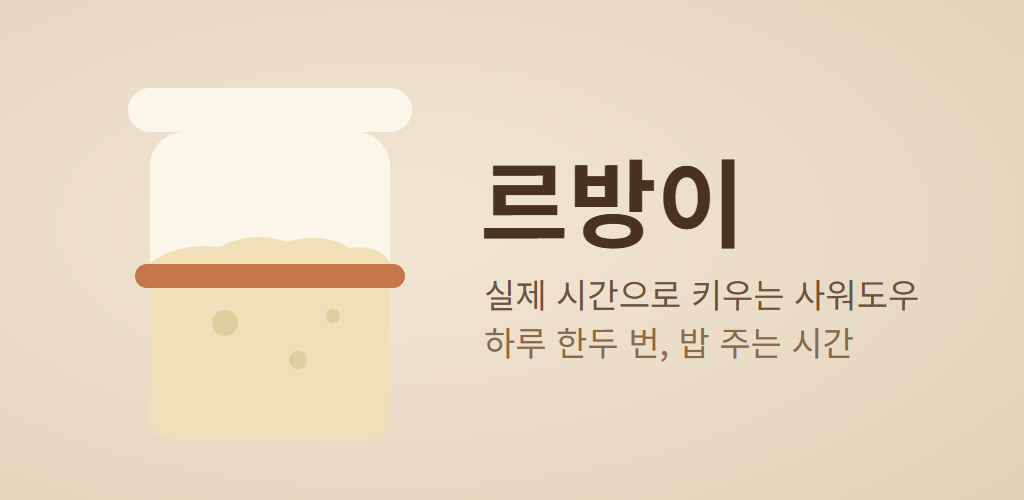
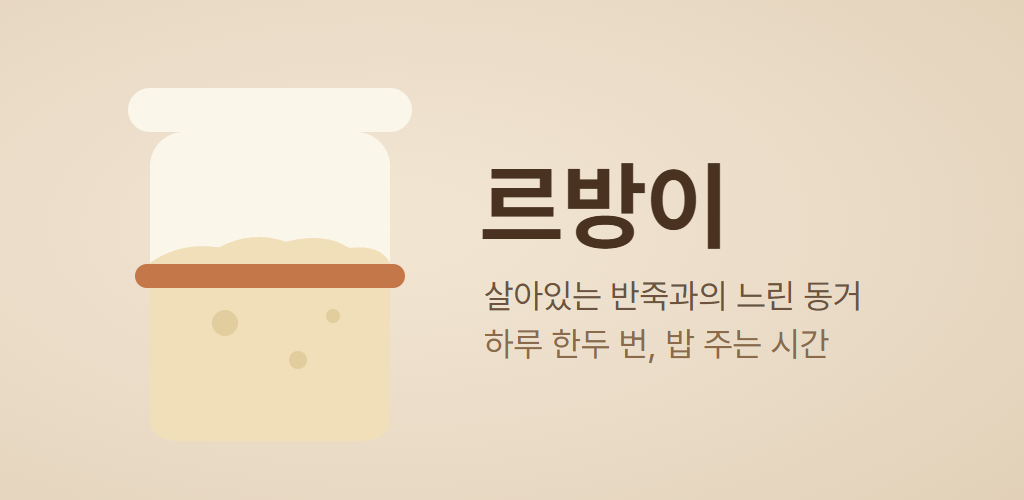
chore(release): Play 내부 테스트 등록 — versionCode 2 / 1.3.7 AAB + 스토어 자산
- android: versionCode 1 -> 2, versionName 1.3.5 -> 1.3.7 (OTA 매니페스트와 동일 -> 다운그레이드 없음)
- 피처 그래픽 부제를 짧은 설명과 같은 문장으로 교체 (카피 잠금 위반 "키우는 사워도우" 제거)
  + scripts/render-feature-graphic.mjs 로 재굽기 자동화
- scripts/store-shots.mjs: 태블릿 스크린샷 캡처 하네스 (현재 결과는 사용 불가 — 태블릿 레이아웃 문제)
- docs/STORE_LISTING.md: Play Console 등록 현황과 남은 작업 갱신

Claude-Session: https://claude.ai/code/session_016vZwmBph9XzPk9HDA9vyeV

Changed region(s): [[0.4688, 0.3, 0.7188, 0.51], [0.4688, 0.54, 0.9062, 0.63], [0.4688, 0.66, 0.8438, 0.72]]

diff --git a/docs/STORE_LISTING.md b/docs/STORE_LISTING.md
@@ -37,11 +37,18 @@
 ## 준비된 자산
 
 - 앱 아이콘 512×512: `assets/icon-512.png`
-- 피처 그래픽 1024×500: `assets/feature-graphic.png`
-  (문구에 “키우는 사워도우”가 들어 있음 — 잠금과 어긋남. 공개 전에 SVG 고쳐 다시 굽는 편이 낫다)
-- 스크린샷: `docs/screenshot-home.png` · `docs/screenshot-recipes.png` (에뮬. 실기기 캡처로 교체 권장)
-- 서명 AAB — **재빌드 필요**(AdMob 네이티브 SDK 도입으로 versionCode 상향 + `com.google.android.gms.ads.APPLICATION_ID`
-  meta-data 포함이 전제, RELEASE §1-1 절차). OTA 웹 레이어는 1.3.6 라이브.
+- 피처 그래픽 1024×500: `assets/feature-graphic.png` — 2026-08-30 재굽기. 부제를 짧은 설명과 같은
+  문장으로 교체해 카피 잠금 위반(“키우는 사워도우”)을 없앴다. 다시 구우려면
+  `node scripts/render-feature-graphic.mjs` (SVG + Pretendard를 헤드리스 크롬으로 렌더).
+- 스크린샷(폰): `docs/screenshot-home.png` · `docs/screenshot-recipes.png` (에뮬. 실기기 캡처로 교체 권장)
+- **태블릿 스크린샷 없음** — `scripts/store-shots.mjs`로 1200×1920·1600×2560을 찍어 봤으나 쓸 수 없었다:
+  ① 온보딩(“시작하기”) 화면에서 멈추고 ② 3D 반죽이 렌더되지 않았고 ③ 1600×2560에서는 같은 텍스트
+  블록이 위아래로 두 번 나왔다. 태블릿 폭에서 콘텐츠가 좁은 띠로 남고 나머지가 빈 배경이라
+  **자산 문제가 아니라 태블릿 레이아웃 문제**다. Play 등록정보 저장은 이것 없이 통과하지만,
+  큰 화면 노출을 노린다면 레이아웃부터 손봐야 한다.
+- 서명 AAB: `android/app/build/outputs/bundle/release/app-release.aab`
+  (2026-08-30 빌드, versionCode 2 / versionName 1.3.7, 12.9MB). OTA 매니페스트도 1.3.7이라
+  네이티브와 같은 값 = 다운그레이드 없음(RELEASE §1-1).
 
 ## 앱 콘텐츠 선언
 
@@ -127,10 +134,33 @@ COVID-19 관련 앱인가요? **아니요**
 5. 테스터 이메일 추가 → 선택 URL을 테스터에게 전달
    (Play 스토어 앱이 **그 구글 계정**으로 로그인돼 있어야 함)
 
+## 등록 현황 (2026-08-30)
+
+Play Console에 앱을 만들고 폼을 전부 채웠다. 개발자 계정 `감자볼`(zaballgam@gmail.com, u/2),
+앱 이름 `르방이 — 하루 한두 번, 밥 주는 시간`, 패키지 `com.zaballgam.levain`(확정·변경 불가),
+게임/시뮬레이션·무료·기본 언어 ko-KR.
+
+끝난 것:
+
+- 스토어 등록정보 — 짧은 설명·자세한 설명·아이콘 512·피처 그래픽·폰 스크린샷 2장, 저장 완료
+- 개인정보처리방침 URL `https://levain-ota.vercel.app/privacy.html` (200 확인)
+- 로그인 세부정보 = 제한된 부분 없음 / 광고 = 있음 / 광고 ID = 사용함(광고 또는 마케팅)
+- 콘텐츠 등급 — IARC 설문 14문항 전부 “아니요”, 결과 **전체이용가(G·L·E·3+)**
+- 타겟층 = 만 18세 이상 / 정부 앱·금융 기능·건강 앱 = 해당 없음
+- 데이터 보안 — 기기 또는 기타 ID를 **수집·공유**(광고 또는 마케팅), 전송 중 암호화,
+  임시 처리 아님, **사용자가 수집 여부를 선택 가능**(광고는 사용자가 버튼을 눌러야만 재생되고
+  `ensureInit`이 그때 처음 불린다 — `src/platform/ads.ts`), 계정 생성 없음
+- 앱 카테고리·연락처 이메일
+- 내부 테스트 임시 출시 `2 (1.3.7)` 생성 + 출시 노트 작성
+
 ## 남은 사용자 작업
 
-1. Play Console 개발자 계정 준비·로그인
-2. 위 순서로 앱 생성 + 폼 붙여넣기
-3. `bundleRelease`로 AAB 굽기 (versionName 정렬 여부 결정)
-4. 내부테스트 테스터 이메일
+1. **AAB 업로드** — `android/app/build/outputs/bundle/release/app-release.aab`를 내부 테스트
+   임시 출시 `2 (1.3.7)`에 끌어다 놓기. (자동화 브리지는 10MB까지라 12.9MB 파일을 못 올린다.)
+2. **테스터 목록 선택** — 계정에 이미 `자두`(33) · `종이톡 내부 테스터`(2) · `포도알 테스터`(26)가 있다.
+   누구에게 돌릴지는 사용자 판단.
+3. 출시 검토 → 내부 테스트 출시
+4. 실 AdMob ID — 지금 AAB는 **Google 테스트 ID**다. AdMob 콘솔에서 앱을 만들어도 Play에 게시되기
+   전에는 “스토어 추가”가 안 돼 광고 게재가 제한된다(podoal 앱 2개가 지금 그 상태). 그래서 순서는
+   Play 게시 → AdMob 앱 등록·스토어 연결 → `strings.xml`·`ads.ts` 교체 → 새 AAB.
 5. 공개가 목표면 비공개 테스트 12명 모집
